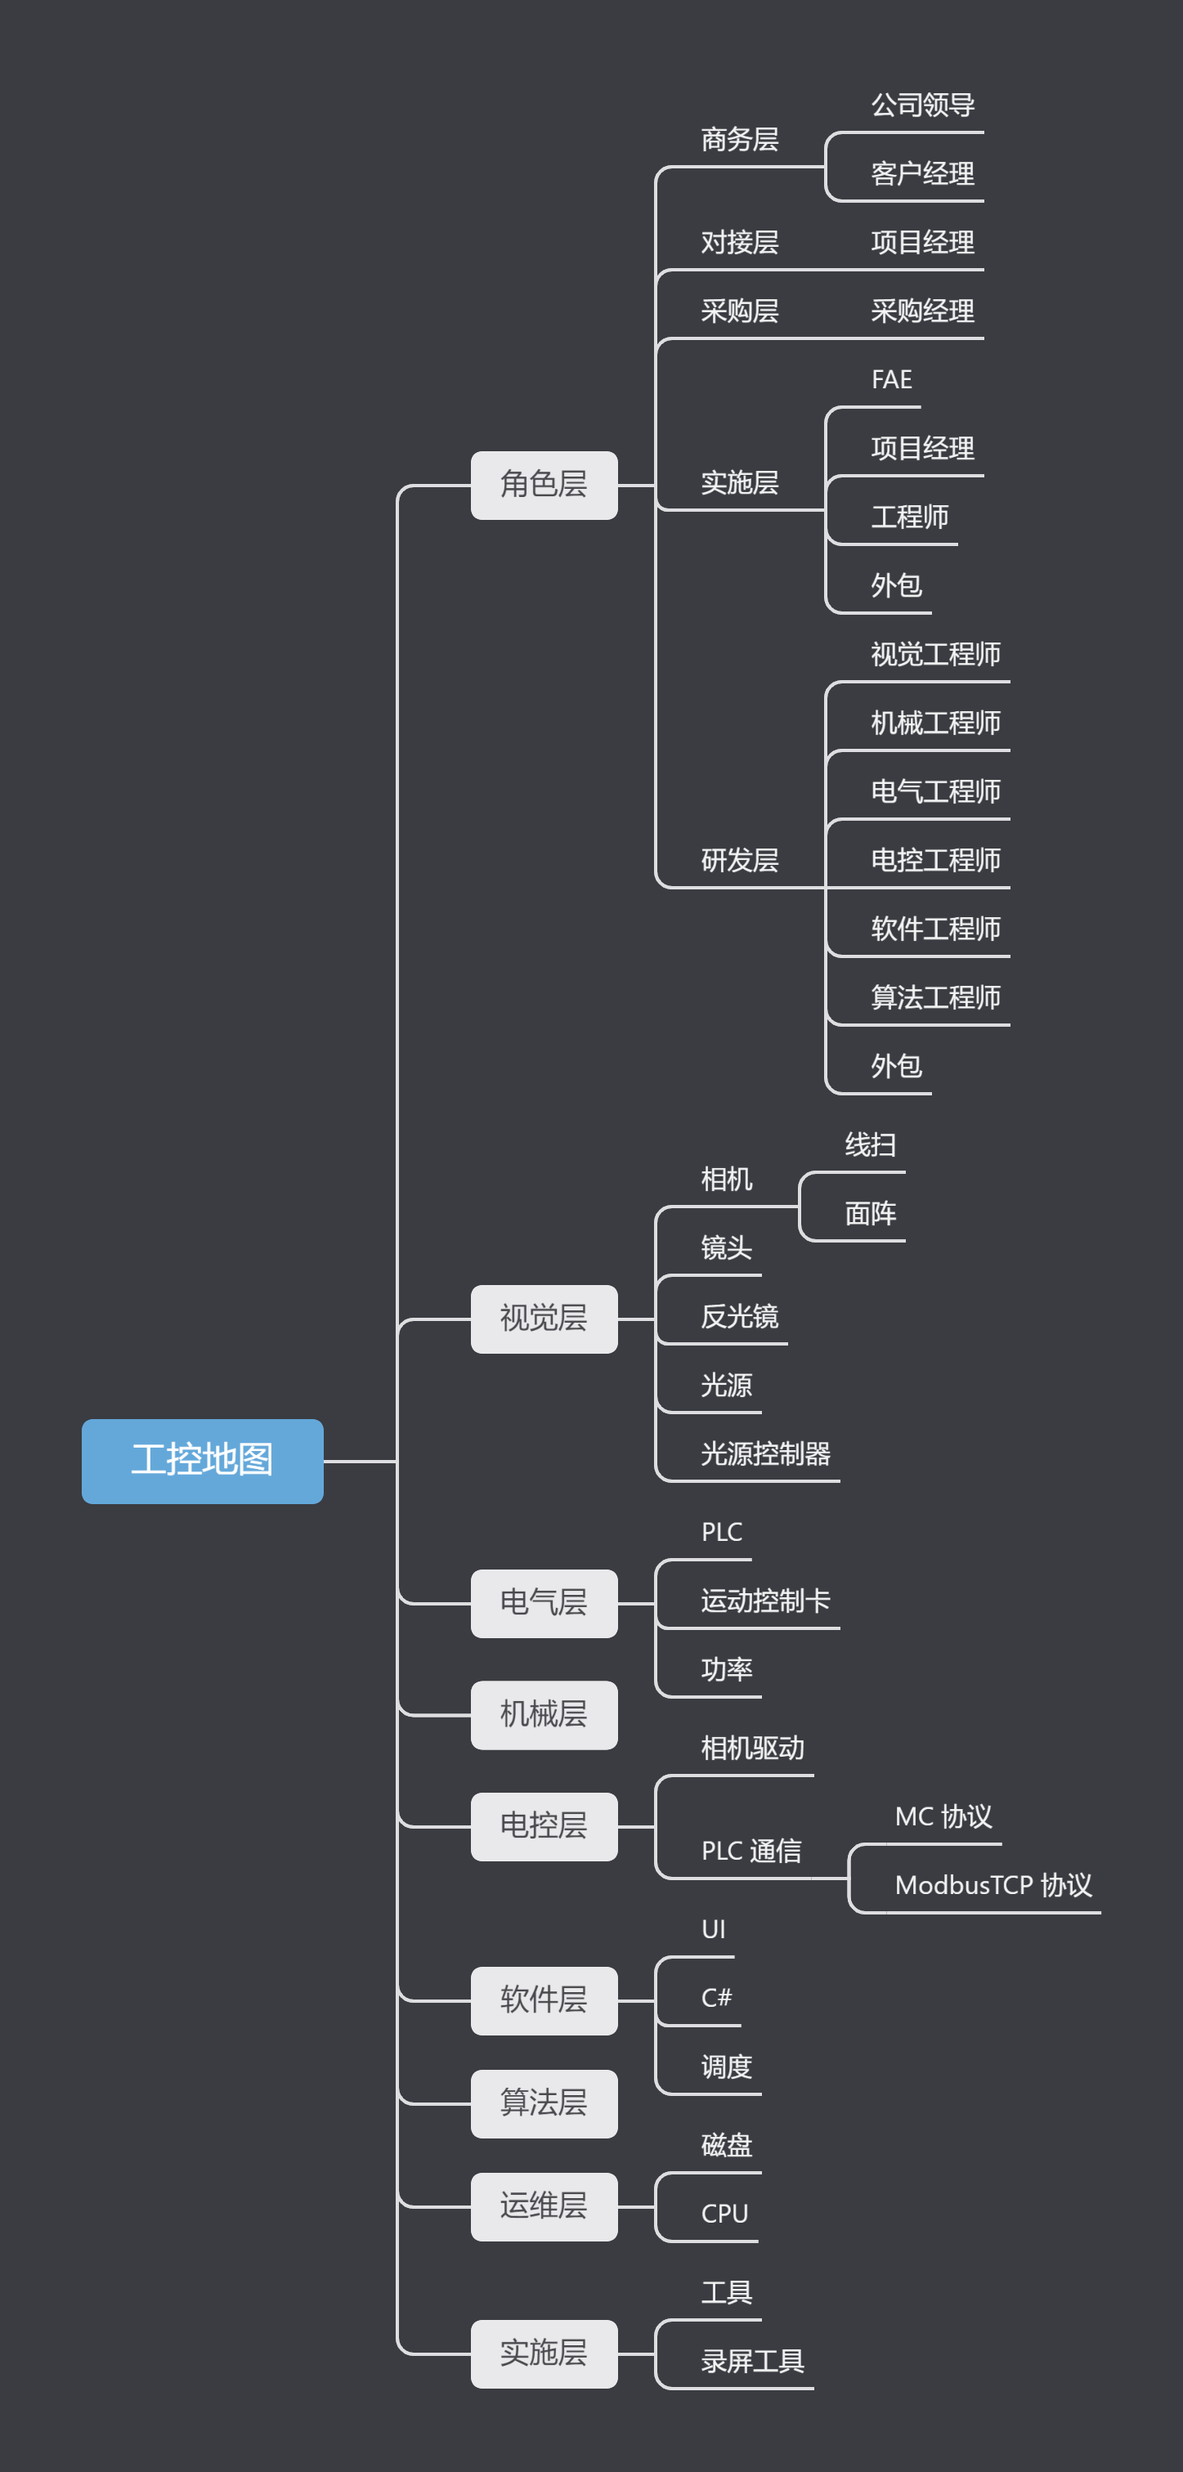
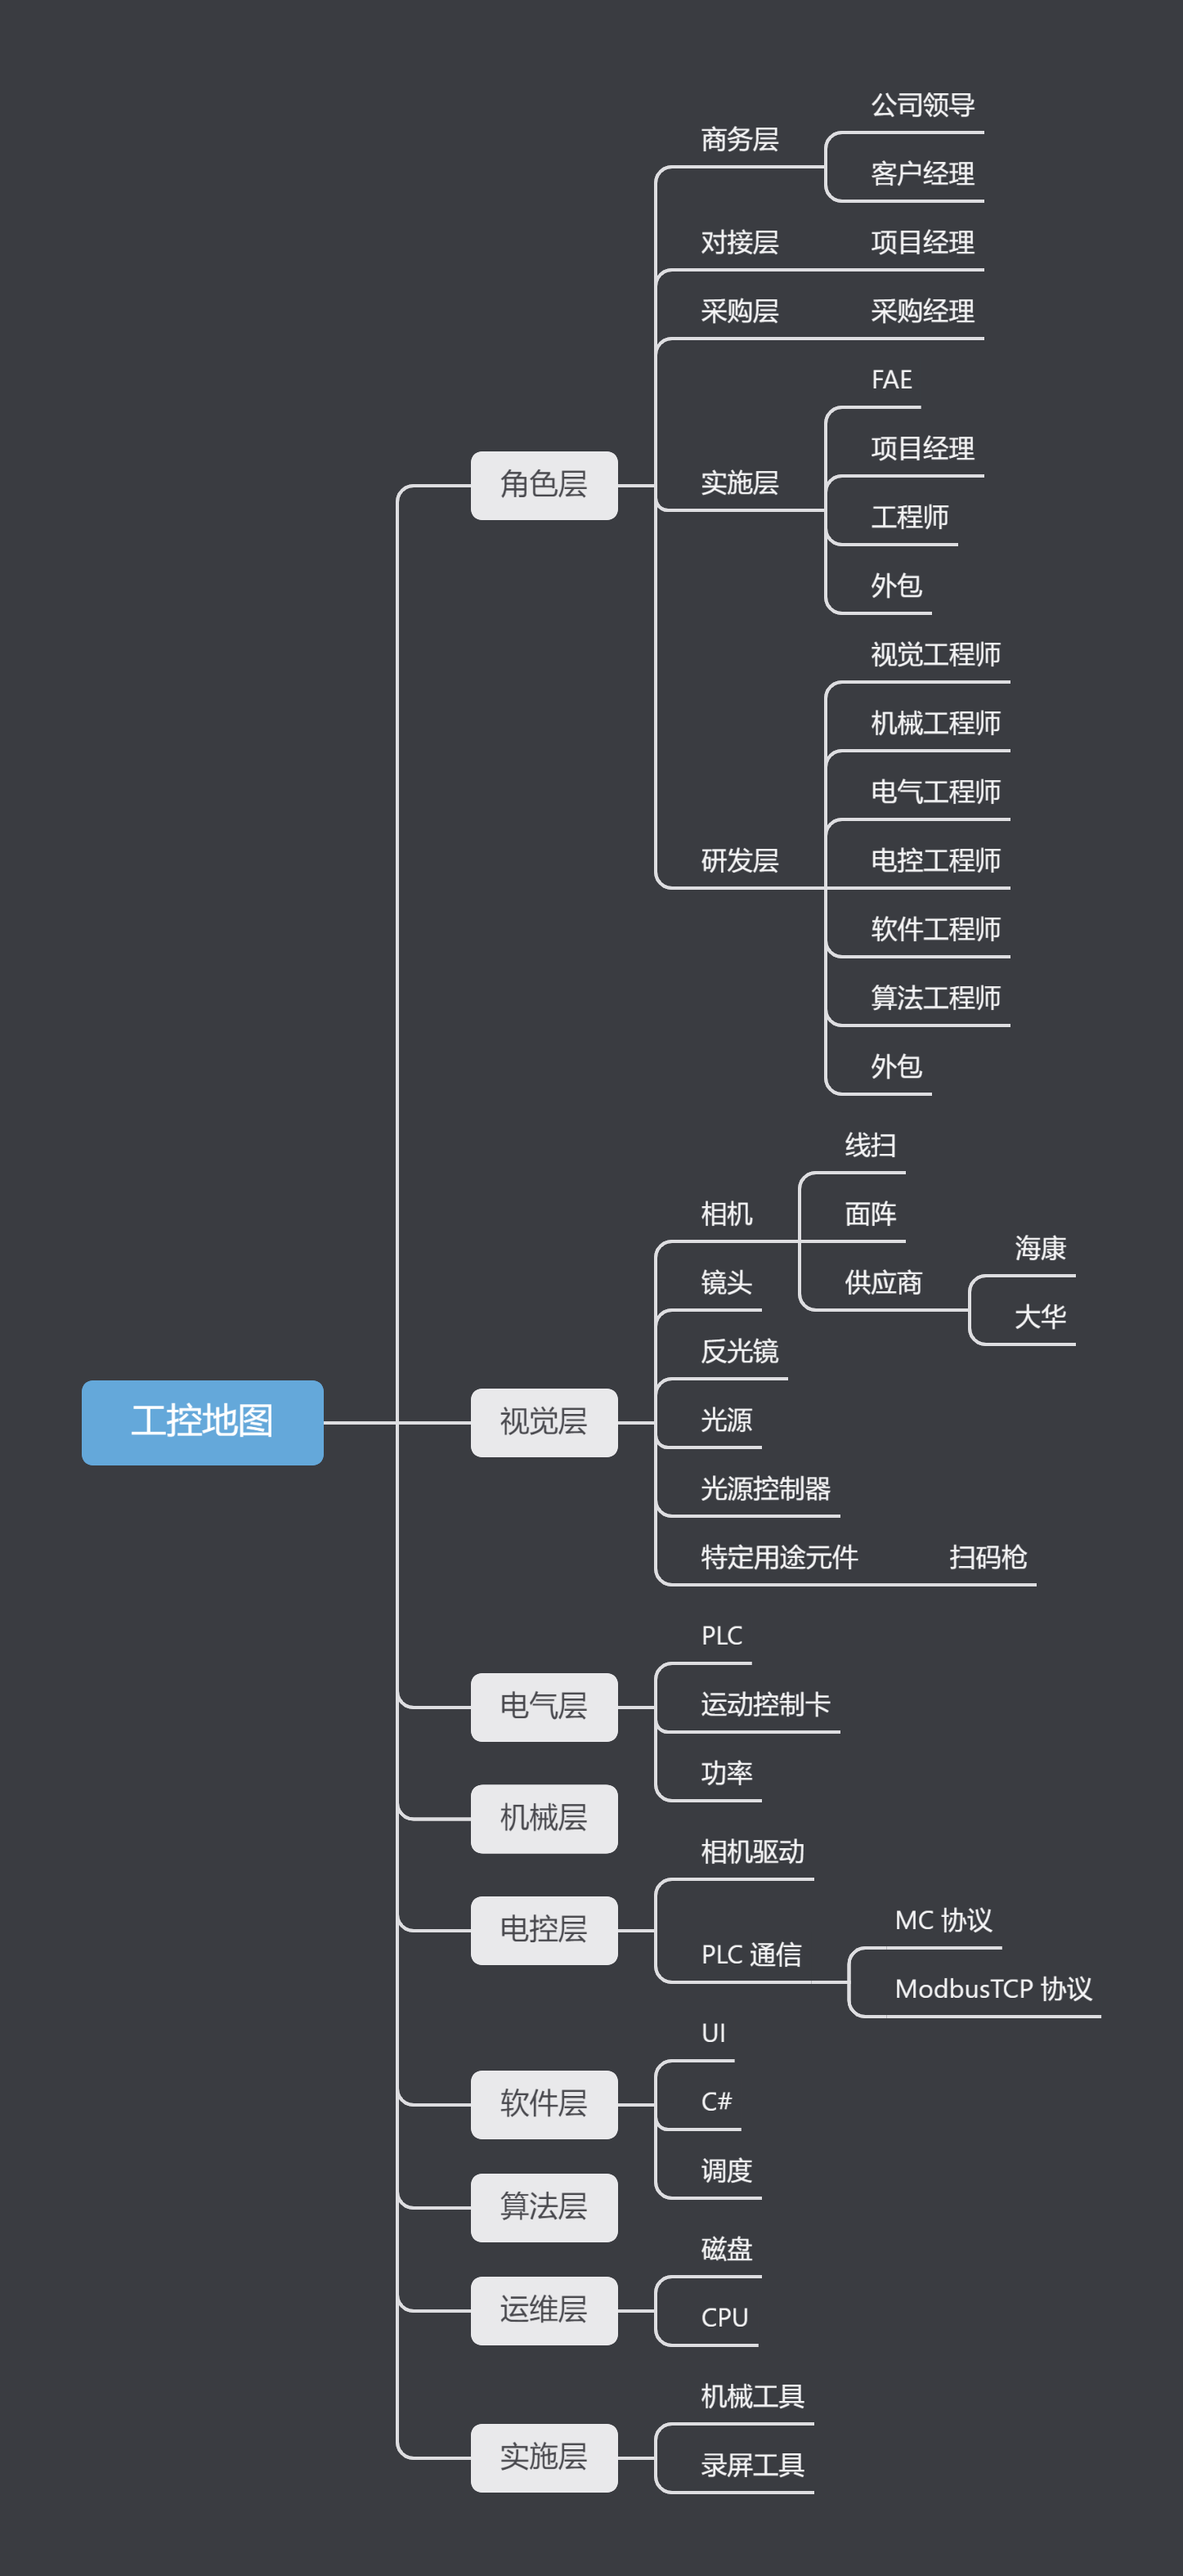
新增海康扫码枪

diff --git a/Vision/扫码枪.md b/Vision/扫码枪.md
@@ -9,4 +9,45 @@
 
 - MV-ID5060M-08S-WBN 24V 23W
 
+<div align="center">
+    <img src="./img/MV-ID5060M-08S-WBN/MV-ID5060M-08S-WBN.png">
+</div>
 
+IDMVS 硬触发参数
+
+1、设置触发模式
+
+<div align="center">
+    <img src="./img/MV-ID5060M-08S-WBN/触发模式.png">
+</div>
+
+2、添加条码类型
+
+<div align="center">
+    <img src="./img/MV-ID5060M-08S-WBN/添加条码.png">
+</div>
+
+3、设置触发参数
+
+<div align="center">
+    <img src="./img/MV-ID5060M-08S-WBN/触发参数.png">
+</div>
+
+4、设置过滤规则
+
+<div align="center">
+    <img src="./img/MV-ID5060M-08S-WBN/过滤规则.png">
+</div>
+
+5、保存用户配置
+
+<div align="center">
+    <img src="./img/MV-ID5060M-08S-WBN/保存参数.png">
+</div>
+
+官方手册下载链接：
+链接：https://pan.baidu.com/s/1y2-cKTI7Sm4BVgvUlavlDA 提取码：1234 
+
+注意事项：
+
+1、自动聚焦后，曝光参数要调小，防止运动的物体扫码拖影（示例值：曝光参数 = 500 ms，增益 = 30）
